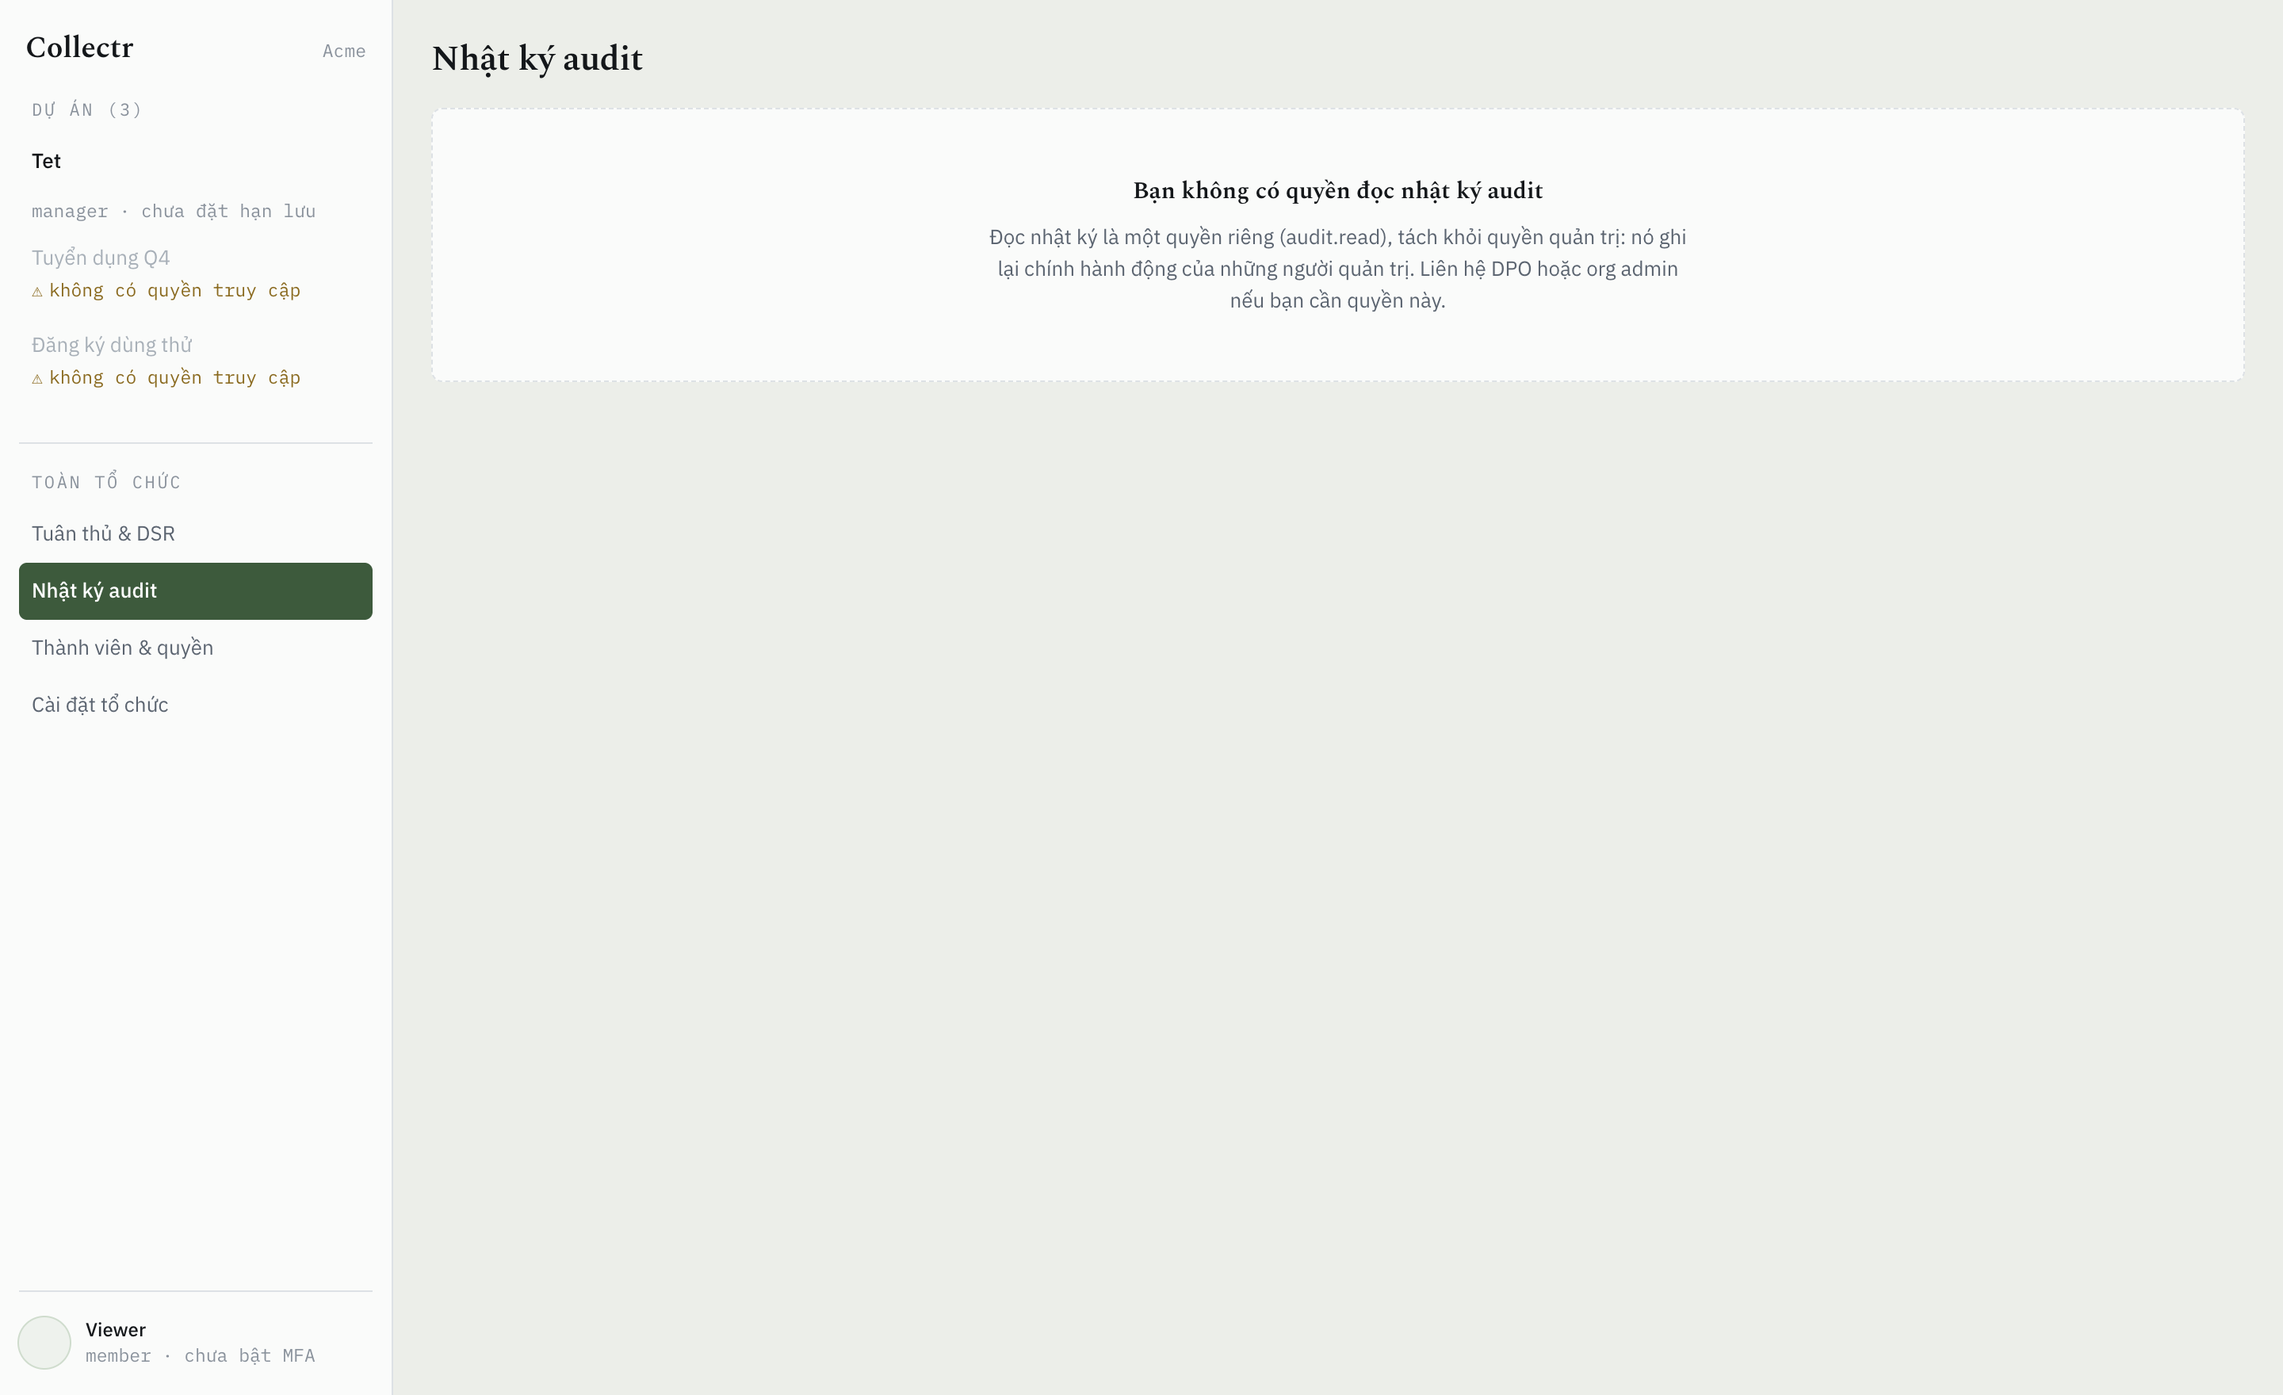
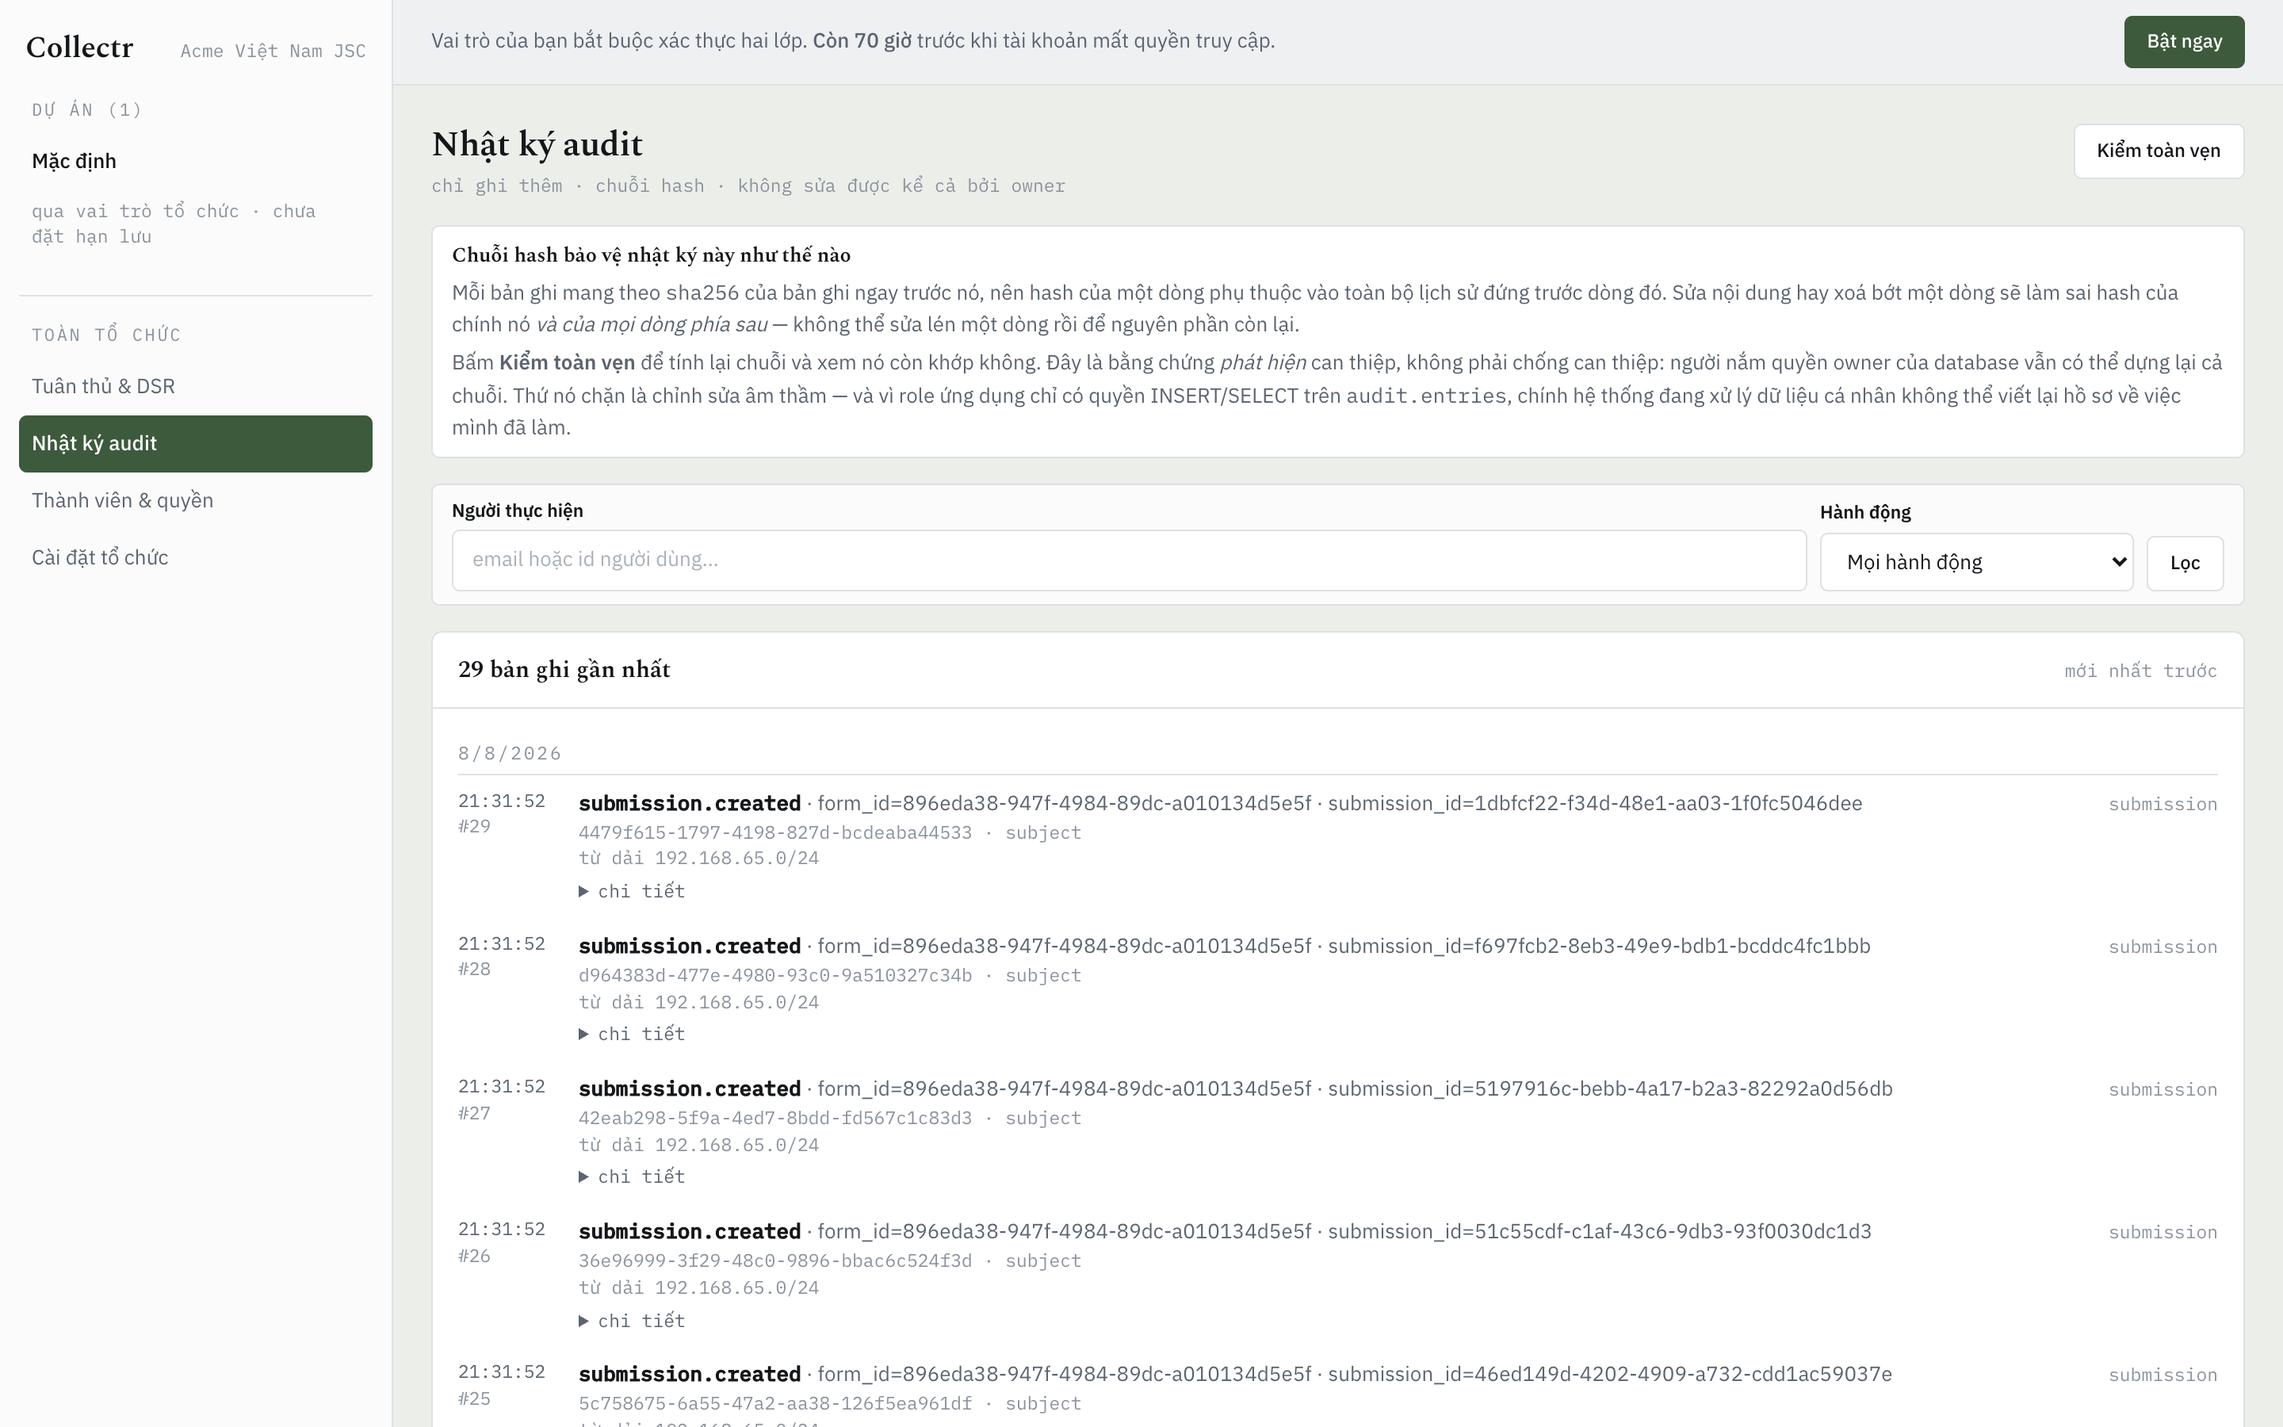
docs: an honest roadmap, the audit screenshot, and a shorter front page
The roadmap still listed v1.0 as "three missing endpoints, API keys, security
hardening" -- all of which shipped several versions ago, while nothing since
appeared at all: answer formats, the attachment path, the subject portal's
client, the setup token, S3 storage, the proxy fixes. It also had v0.15 listed
before v0.14.

What is left is now stated as what it is rather than folded into a tick: the
load numbers were measured with the client on the same Docker VM and the
unexplained 2,23ms -> 7,15ms gap between two runs is written down; the
submission grid has no search, which is the first thing anyone does when a
caller reads out their phone number; SECURITY.md does not yet say who may
report, within what window, or which versions are supported, and that has to
be settled before there is a first release to report against.

audit.png was committed and never referenced -- and it showed "you do not have
permission to read the audit log", captured as a Viewer, the same defect the
DSR screenshot had. Retaken as an owner against real entries. It earns the
space: the append-only hash chain is the part of this product that is hard to
copy, and it was the one thing with no picture. forms.png was also unreferenced
and is deleted rather than left as 176 KB nobody looks at.

The README had grown to 22 KB, with the configuration table, four proxy
topologies and the object storage guide making up nearly 40% of it. That is
[…]

diff --git a/README.md b/README.md
@@ -45,6 +45,10 @@ Thiết kế bám theo **Luật Bảo vệ dữ liệu cá nhân 91/2025/QH15** 
 
 **8 vai trò, 16 quyền** — ô `✕` là *cố tình không cấp*: DPO giám sát nhưng không xuất được dữ liệu. Ranh giới ai đó vẽ có chủ đích, không phải chỗ trống.
 
+![Nhật ký audit với chuỗi hash](docs/images/audit.png)
+
+**Nhật ký chỉ ghi thêm** — mỗi bản ghi mang sha256 của bản ghi trước nó, nên sửa một dòng làm sai hash của chính nó *và của mọi dòng phía sau*. Nút **Kiểm toàn vẹn** tính lại toàn chuỗi. Đây là bằng chứng *phát hiện* can thiệp, không phải chống can thiệp — và role ứng dụng chỉ có `INSERT`/`SELECT` trên bảng này, nên hệ thống đang xử lý dữ liệu cá nhân không thể viết lại hồ sơ về việc mình đã làm.
+
 ![Link rút gọn và QR](docs/images/links.png)
 
 **Link rút gọn & QR** — hai con số lượt bấm cạnh nhau vì chúng đến từ hai nguồn phủ hai khoảng thời gian khác nhau. Cột "dải mạng" **không phải** số người.
@@ -150,85 +154,17 @@ curl -X POST http://localhost/api/v1/members/invitations -b cookies.txt \
 }'
 ```
 
-### Đặt sau proxy khác (Cloudflare, nginx, tunnel)
+### Cấu hình & triển khai
 
-Collectr đọc địa chỉ khách từ `X-Forwarded-For`, lùi lại `TRUSTED_PROXY_HOPS` chặng. Đặt sai thì **không có lỗi nào cả** — địa chỉ sai lặng lẽ đi vào bản ghi đồng ý (bằng chứng ai đã đồng ý, từ đâu) và thành khoá của giới hạn theo IP, khiến mọi khách qua cùng một proxy dùng chung một hạn mức 60/phút.
+Biến môi trường, đặt sau Cloudflare/nginx/tunnel, chuyển sang object storage: xem [docs/07-operations.md](docs/07-operations.md#78-cấu-hình--triển-khai).
 
-| Cách triển khai | `TRUSTED_PROXY_HOPS` | Ghi chú |
-|---|---|---|
-| Chỉ Caddy (mặc định) | `1` | Không cần đổi gì |
-| Cloudflare / nginx → Caddy → app | `2` | Caddy nối thêm một chặng của chính nó |
-| Tunnel hoặc nginx → thẳng app, bỏ Caddy | `1` | Mất HSTS, cái còn lại app tự đặt |
-| Chạy binary trần ra mạng | `0` | Bỏ qua `X-Forwarded-For` hoàn toàn |
+Ba thứ hay sai nhất, nêu trước ở đây vì chúng đều hỏng **âm thầm**:
 
-Với bất cứ thứ gì đứng trước Caddy, `deploy/Caddyfile` phải có `trusted_proxies private_ranges` — nếu không Caddy **thay** header bằng địa chỉ nó thấy và IP khách mất trước khi tới app. Thiếu một trong hai vế còn tệ hơn thiếu cả hai: `hops=2` với header một entry sẽ trỏ ra ngoài mảng rồi rơi về địa chỉ socket, im lặng.
+- **`SITE_ADDRESS`** không khớp hostname khách truy cập → Caddy trả `200` **thân rỗng**, trang trắng, log toàn 200.
+- **`TRUSTED_PROXY_HOPS`** sai → địa chỉ proxy bị ghi vào bản ghi đồng ý thay cho địa chỉ khách, và giới hạn theo IP gộp mọi người vào một hạn mức.
+- **`TENANT_KEK`** mất → mọi field nhạy cảm và tệp đã mã hoá không đọc lại được, vĩnh viễn.
 
-**Sau tunnel, Caddy không xin được chứng chỉ công cộng.** Thử thách ACME đi tới Cloudflare chứ không tới origin, nên Caddy thất bại rồi ngừng phục vụ 443 — triệu chứng là `502` từ tunnel. Thêm `tls internal` vào khối site: tunnel đã lo TLS công cộng rồi, đoạn origin chỉ cần mã hoá chứ không cần chứng chỉ ai cũng tin.
-
-**`SITE_ADDRESS` phải đúng hostname khách thật sự truy cập.** Caddy khớp site theo Host; Host không khớp site nào thì nó trả **200 với thân rỗng** — không phải 404. Trang trắng, log toàn 200. Nếu các trang trống rỗng, kiểm chỗ này trước.
-
-Đừng suy luận, hãy đo: mở **Cài đặt tổ chức** từ máy của bạn và so dòng *"IP của bạn như hệ thống ghi nhận"* với IP thật. Khớp là đúng; ra địa chỉ proxy hay dải nội bộ là sai.
-
-> [!WARNING]
-> `make secrets` sinh ra `TENANT_KEK` trong `.env`. **Sao lưu khóa này ở nơi tách biệt với bản sao lưu cơ sở dữ liệu.** Mất nó là mất vĩnh viễn mọi trường nhạy cảm và mọi tệp đã mã hóa — không có đường khôi phục. Đó chính là thuộc tính khiến tính năng xóa triệt để hoạt động.
-
-### Cấu hình
-
-| Biến môi trường | Mặc định | Ý nghĩa |
-|---|---|---|
-| `BASE_URL` | `http://localhost:8080` | Origin của ứng dụng: trang biểu mẫu, cổng DSR, API quản trị |
-| `SHORT_URL_BASE` | `BASE_URL` | Origin của link rút gọn. Đặt riêng để chạy shortener trên tên miền của nó |
-| `DATABASE_URL` | — | Chuỗi kết nối PostgreSQL |
-| `REDIS_URL` | — | Chuỗi kết nối Redis |
-| `TENANT_KEK` | — | **Bắt buộc.** Khóa gốc mã hóa, 32 byte base64 |
-| `SETUP_TOKEN` | tự sinh | Mã cho endpoint tạo chủ sở hữu đầu tiên. Bỏ trống thì máy chủ tự sinh và in ra log |
-| `PUBLIC_WRITE_IP_LIMIT` | `60` | Lượt gửi/tải tệp mỗi phút cho mỗi dải /24. Nâng lên khi khách đi chung một NAT (hội chợ, văn phòng) |
-| `PUBLIC_WRITE_FORM_LIMIT` | `600` | Lượt gửi mỗi phút cho mỗi biểu mẫu |
-| `STORAGE_DRIVER` | `local` | `local` (đĩa) hoặc `s3`. **Mặc định là đĩa** — MinIO không chạy trừ khi bạn bật profile `s3` |
-| `STORAGE_S3_ENDPOINT` | — | `minio:9000`, `<acc>.r2.cloudflarestorage.com`, `s3.cloud.fpt.vn`, `s3.amazonaws.com` |
-| `STORAGE_S3_BUCKET` · `_ACCESS_KEY` · `_SECRET_KEY` | — | Bắt buộc khi `STORAGE_DRIVER=s3` |
-
-Tệp đính kèm được **mã hoá trước khi rời khỏi tiến trình**, bằng khoá riêng của từng chủ thể dữ liệu. Bucket chỉ chứa ciphertext — nhà cung cấp, một bucket policy đặt sai, hay một bản sao lưu bị chép đi đều chỉ thu được byte không ai đọc được. Đó cũng là lý do link tải **không** phải presigned URL của S3: trình duyệt nhận về sẽ là bản mã. Ứng dụng phục vụ byte, vì nó là chỗ giữ khoá, kiểm quyền và ghi nhật ký.
-
-Thử bằng MinIO tại chỗ trước khi trỏ ra cloud:
-
-```bash
-docker compose --profile s3 up -d minio
-STORAGE_DRIVER=s3 STORAGE_S3_ENDPOINT=http://minio:9000 \
-STORAGE_S3_BUCKET=collectr STORAGE_S3_ACCESS_KEY=... STORAGE_S3_SECRET_KEY=... \
-  docker compose up -d collectr worker
-```
-| `STORAGE_DRIVER` | `local` | `local` (đĩa) hoặc `s3`. **Mặc định là đĩa** — MinIO không chạy trừ khi bạn bật profile `s3` |
-| `STORAGE_LOCAL_PATH` | `/data/files` | Thư mục lưu tệp khi dùng `local` |
-| `STORAGE_S3_*` | — | Endpoint, bucket, khóa truy cập khi dùng `s3` |
-| `DSR_SLA_HOURS` | `72` | Hạn xử lý yêu cầu của chủ thể dữ liệu |
-| `DEFAULT_RETENTION_DAYS` | `730` | Thời hạn lưu mặc định |
-| `RAW_EVENT_RETENTION_DAYS` | `90` | Thời hạn lưu sự kiện thô |
-| `DEPLOYMENT_ROLE` | `controller` | `controller` (tự dùng) hoặc `processor` (chạy dịch vụ cho bên khác) |
-
-| `SMTP_HOST` `SMTP_FROM` | — | Bắt buộc để mời đồng nghiệp và để chủ thể dữ liệu nhận được liên kết truy cập |
-
-> [!WARNING]
-> Chưa cấu hình SMTP thì lời mời và liên kết truy cập được **ghi ra log thay vì gửi đi**. Dùng để thử được, **không dùng thật được** — người khác không đọc được log của bạn.
->
-> Thử tại chỗ: `docker compose --profile dev up -d mailpit`, đặt `SMTP_HOST=mailpit` `SMTP_PORT=1025` `SMTP_STARTTLS=false`, rồi đọc mail ở http://localhost:8025
-
-Danh sách đầy đủ: [`.env.example`](.env.example).
-
-### Chuyển sang object storage
-
-Khi dung lượng tệp vượt ~300 GB, hoặc khi chạy nhiều hơn một instance:
-
-```bash
-STORAGE_DRIVER=s3
-STORAGE_S3_ENDPOINT=http://minio:9000
-STORAGE_S3_BUCKET=collectr
-```
-```bash
-docker compose --profile s3 up -d      # kèm MinIO
-```
-
-Không cần sửa dòng code nào — cả hai driver dùng chung một giao diện `Storage`. Job chép dữ liệu từ `local` sang `s3` (kèm đối chiếu checksum) sẽ có ở v0.2.
+Kiểm cái thứ hai bằng mắt: mở **Cài đặt tổ chức** và so dòng *"IP của bạn như hệ thống ghi nhận"* với IP thật của bạn.
 
 ## Tài liệu
 
@@ -284,23 +220,24 @@ Lý do đầy đủ ở [docs/05-architecture.md](docs/05-architecture.md).
 
 ## Lộ trình
 
-- [x] Thiết kế hệ thống
-- [x] **v0.1** — Link + QR + redirect + thu thập sự kiện async *(đang hoàn thiện: quản lý workspace/user)*
-- [x] **v0.2** — Rule engine, versioning bất biến, validator lúc publish, bảng dữ liệu *(chưa có endpoint submit công khai — xem v0.3)*
-- [x] **v0.3** — Consent + endpoint submit, nhật ký bất biến, crypto-shredding *(cổng tự phục vụ chủ thể dữ liệu chuyển sang v0.4)*
-- [x] **v0.4** — Cổng chủ thể dữ liệu: tra cứu, sửa, yêu cầu xóa; retention sweeper; xử lý DSR tự động
-- [x] **v0.5** — Đăng nhập (argon2id + TOTP), session thu hồi được, phân giải quyền
-- [x] **v0.6** — SMTP, mời thành viên, quản lý thành viên
-- [x] **v0.7** — Đặt lại mật khẩu, đổi mật khẩu, mã dự phòng MFA
-- [x] **v0.8** — Upload tệp: kiểm magic bytes, mã hóa at-rest, link ký, dọn tệp bỏ rơi
-- [x] **v0.9** — Xuất Excel nhiều sheet, webhook có chữ ký, engine báo cáo
-- [x] **v0.10** — Load test, beacon phễu, hàng đợi DSR cho quản trị
-- [x] **v0.11** — `/metrics` Prometheus, rate limit endpoint công khai, CRUD dự án & biểu mẫu
-- [x] **v0.12** — Quản lý tên miền, tách tên miền rút gọn khỏi tên miền ứng dụng
-- [x] **v0.13** — Báo cáo cho link rút gọn: lượt bấm theo thời gian, nguồn, QR, xếp hạng
-- [x] **v0.15** — Giao diện hi-fi, phân quyền theo dự án, cưỡng chế MFA có ân hạn
+Đánh dấu theo thứ tự thật, và những gì **chưa** xong nêu thẳng chứ không giấu trong một dấu tick.
+
+- [x] **v0.1 – v0.9** — link/QR, rule engine + versioning bất biến, consent + submit công khai, cổng chủ thể dữ liệu, đăng nhập + TOTP, mời thành viên, upload tệp mã hoá, xuất Excel + webhook
+- [x] **v0.10 – v0.13** — load test, `/metrics`, rate limit, quản lý tên miền, báo cáo link, chuyển tiếp UTM
 - [x] **v0.14** — Chuyển tiếp UTM, phân tích chiến dịch, xuất báo cáo link ra Excel
-- [ ] **v1.0** — Ba endpoint còn thiếu (phễu, legal hold, so sánh version), API key, cứng hoá bảo mật, đo lại trên hạ tầng tách rời
+- [x] **v0.15** — Giao diện hi-fi, phân quyền theo dự án, cưỡng chế MFA có ân hạn
+- [x] **v0.16** — Ba endpoint còn thiếu, API key, danh sách tệp đính kèm
+- [x] **v0.17** — 7 định dạng câu trả lời kiểm cả hai đầu, giới hạn min/max, nối xong luồng tải tệp
+- [x] **v0.18** — Cổng chủ thể dữ liệu có giao diện thật; chủ thể xem được cả dữ liệu nhạy cảm của mình
+- [x] **v0.19** — Mã khởi tạo thay cho tài khoản mặc định; màn Cài đặt tổ chức; lưu trữ S3 (MinIO/R2/FPT/AWS)
+- [x] **v0.20** — Sửa chuỗi proxy: giữ IP khách sau Cloudflare/nginx/tunnel, và hiện IP quan sát được ra giao diện
+
+**v1.0 còn lại:**
+
+- [ ] Đo lại trên hạ tầng tách rời — client và server khác máy. Số hiện tại đo trên cùng một Docker VM nên là **sàn, không phải trần**, và chênh lệch redirect 2,23ms → 7,15ms giữa hai lần đo vẫn **chưa ai giải thích được**.
+- [ ] Tìm kiếm ở màn Dữ liệu. Hiện chỉ lọc theo ngày; khách gọi điện đọc số điện thoại thì người trực không tra được — mà đó cũng là thao tác đầu tiên khi có yêu cầu chủ thể dữ liệu.
+- [ ] Diễn tập khôi phục sao lưu, có bấm giờ.
+- [ ] Chốt chính sách vá lỗ hổng trước khi cắt release đầu tiên: `SECURITY.md` hiện chưa nói ai được báo, trong bao lâu, và bản nào còn được hỗ trợ.
 
 Ngoài phạm vi hiện tại: A/B testing, đồng bộ CRM, email marketing, biểu mẫu đa ngôn ngữ, sinh hồ sơ đánh giá tác động tự động.
 
